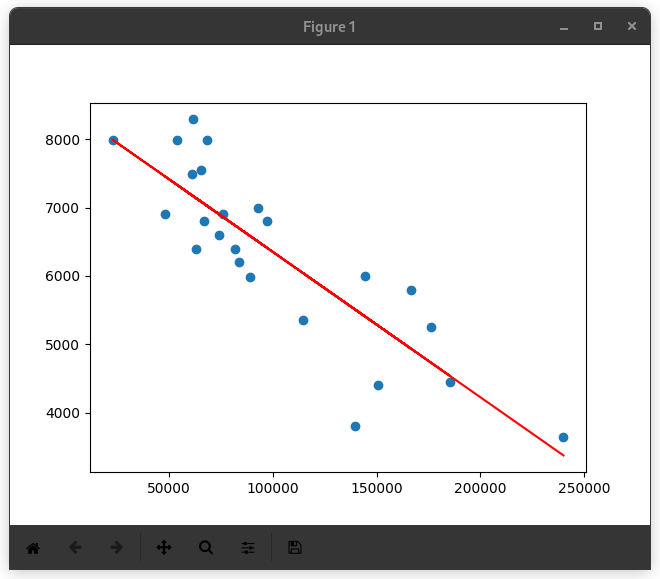
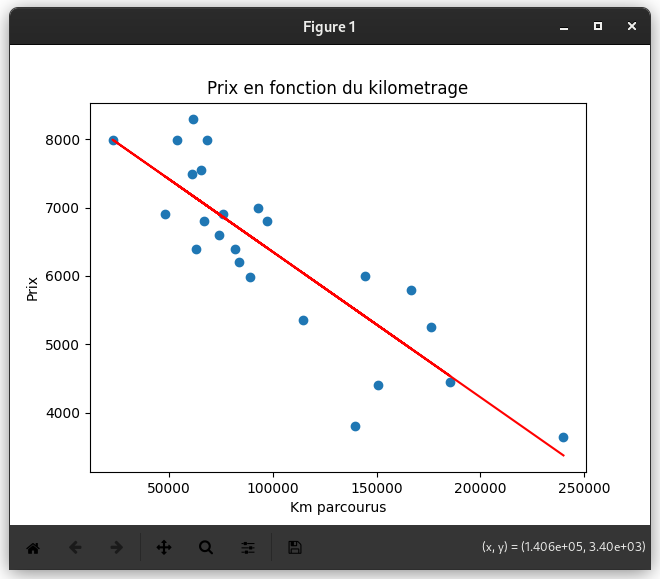
change readme

diff --git a/linear_regression.py b/linear_regression.py
@@ -37,6 +37,9 @@ def display_prediction(xkm, yprice, Xkm, theta):
     data = model(Xkm, theta)
     data = (data * (np.max(yprice) - np.min(yprice))) + np.min(yprice)
     print(data)
+    plt.title("Prix en fonction du kilometrage")
+    plt.xlabel("Km parcourus")
+    plt.ylabel("Prix")
     plt.scatter(xkm, yprice)
     plt.plot(xkm, data, c="r")
     plt.show()

diff --git a/README.md b/README.md
@@ -10,6 +10,16 @@ Ce projet implémente une régression linéaire simple pour prédire le prix d'u
 
 2 Programme d'entraînement : Entraîne un modèle de régression linéaire sur un ensemble de données et enregistre les paramètres du modèle pour une utilisation future
 
+## Comprehention d'un entrainement supervisé
+
+1 Dataset : x features, y target
+
+2 Models : Parametres
+
+3 fonction cout :Ensemble des erreurs entre prediction du modele et les vrais valeurs du dataset
+
+4 Algorithme de minimisation : Algorithme d'aprentissage qui cherche a minimiser la fonction cout
+
 ## notion
 
 - Compréhension du modèle de régression linéaire avec une seule variable
